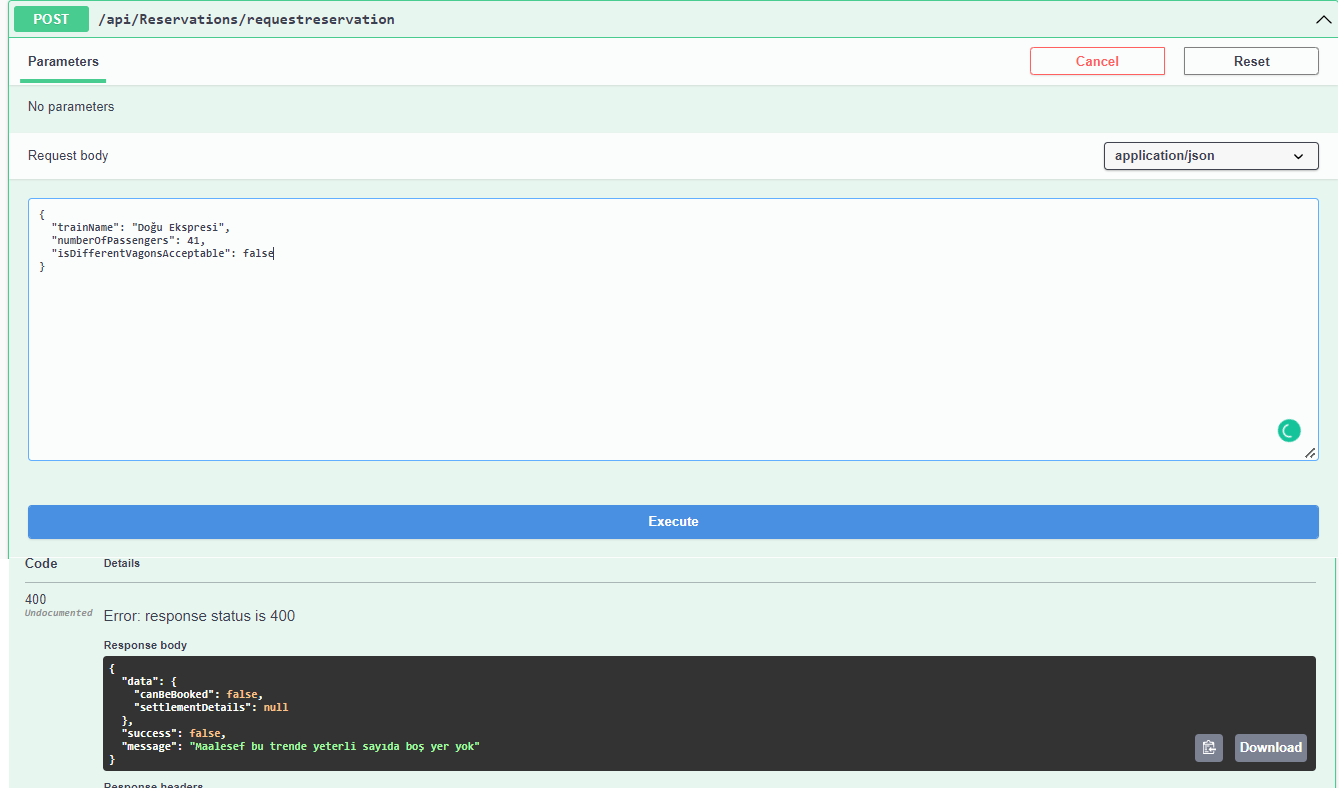
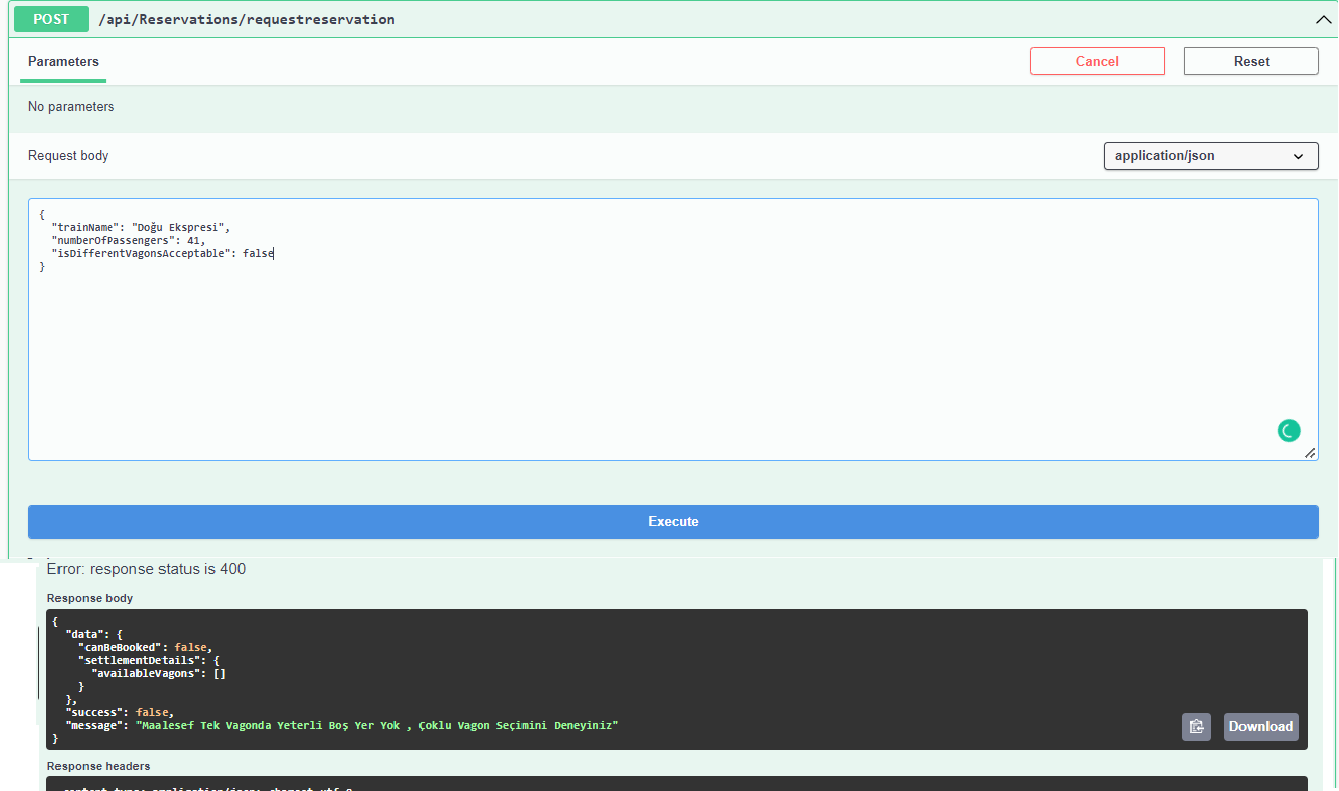
commit 2 readme ve görsel düzeltme

Changed region(s): [[0.0, 0.6979, 1.0, 1.0]]

diff --git a/RailwayReservation.Business/Constants/Messages.cs b/RailwayReservation.Business/Constants/Messages.cs
@@ -11,8 +11,8 @@ namespace RailwayReservation.Business.Constants
     {
         public static string TrainNotFound = "Bu ada sahip tren bulunamadı !";
 
-        public static string ReservationIsNotPossible1 = "Maalesef bu trende yeterli sayıda boş yer yok";
-        public static string ReservationIsNotPossible2 = "Maalesef Tek Vagonda Yeterli Boş Yer Yok , Çoklu Vagon Seçimini Deneyiniz";
+        public static string ReservationIsNotPossible2 = "Maalesef bu trende yeterli sayıda boş yer yok";
+        public static string ReservationIsNotPossible1 = "Maalesef Tek Vagonda Yeterli Boş Yer Yok , Çoklu Vagon Seçimini Deneyiniz";
 
     }
 }

diff --git a/README.md b/README.md
@@ -1,1 +1,69 @@
-RailRoadReservationAPI
+
+# DemirYolu Rezervasyon Uygulaması
+
+<br/>
+Adı girilen Tren hattında talep edilen miktarda yer olup olmadığını belirten API uygulaması.
+<br/>
+#### Kurallar Ve Kullanım
+<br/>
+Kapasite %70' e gelmiş ise rezervasyon yapılamaz.
+<br/>
+İstek yapılırken "çoklu vagondan rezervasyon yapılabilir"  seçeneği için true veya false seçilmeli.
+<br/>
+Eğer çoklu vagon istenmiyorsa uygulama tüm yolcuları tek bir vagona yerleştimeye çalışır, başarısız olursa boş bir array döner ve rezervasyon yapılamaz der.
+<br/>
+
+#### Görsel 1 : Kulanılan Train Tablosu
+<br/>
+
+<img src="https://github.com/Trkrkrl/RailRoadReservationAPI/blob/master/Images/TrainsTable.png">
+
+<br/>
+
+
+#### Görsel 2 : Kulanılan Vagon Tablosu ve Yolcu Kapasiteleri
+
+<br/>
+
+<img src="https://github.com/Trkrkrl/RailRoadReservationAPI/blob/master/Images/Vagons%20Table.png">
+
+
+
+<br/>
+
+#### Görsel 3 : Çoklu Vagon Seçilebilir ve Fazla Yolcu Durumu
+
+
+<br/>
+
+<img src="https://github.com/Trkrkrl/RailRoadReservationAPI/blob/master/Images/distributed-true-overlaod%20test.png">
+
+<br/>
+
+
+#### Görsel 4 : Çoklu Vagon Seçilemez ve Fazla Yolcu Durumu
+
+
+<br/>
+
+<https://github.com/Trkrkrl/RailRoadReservationAPI/blob/master/Images/distributed-false-overloadtest.png">
+
+<br/>
+
+
+#### Görsel 5 : Çoklu Vagon Seçilebilir ve Yeterli Yolcu Durumu
+
+
+<br/>
+
+<https://github.com/Trkrkrl/RailRoadReservationAPI/blob/master/Images/distributed-true-low%20passenger.png">
+
+<br/>
+
+
+#### Görsel 6 : Çoklu Vagon Seçilebilemez ve Yeterli Yolcu Durumu
+
+
+<br/>
+
+<https://github.com/Trkrkrl/RailRoadReservationAPI/blob/master/Images/distributed-false-overloadtest.png">
